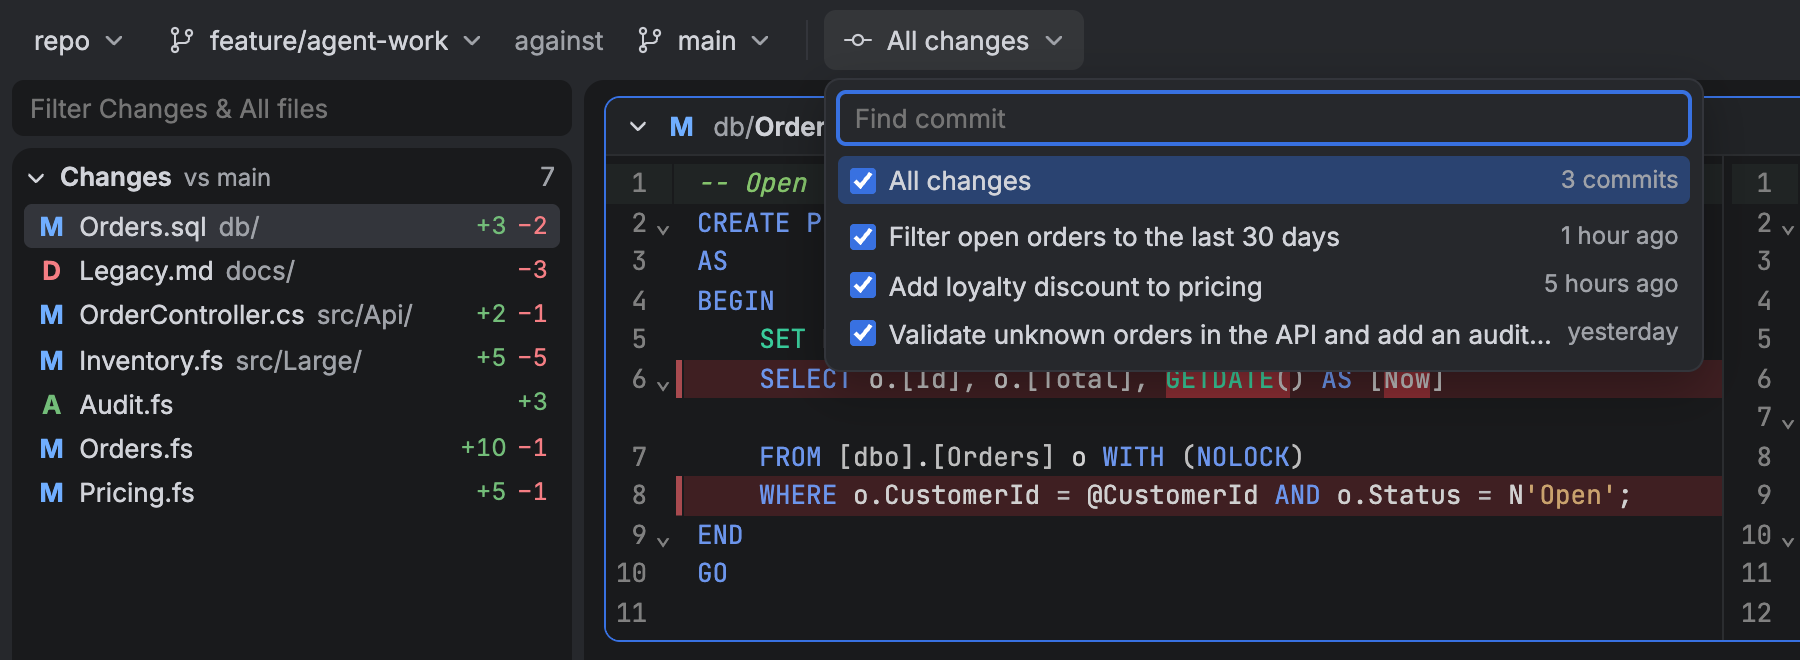
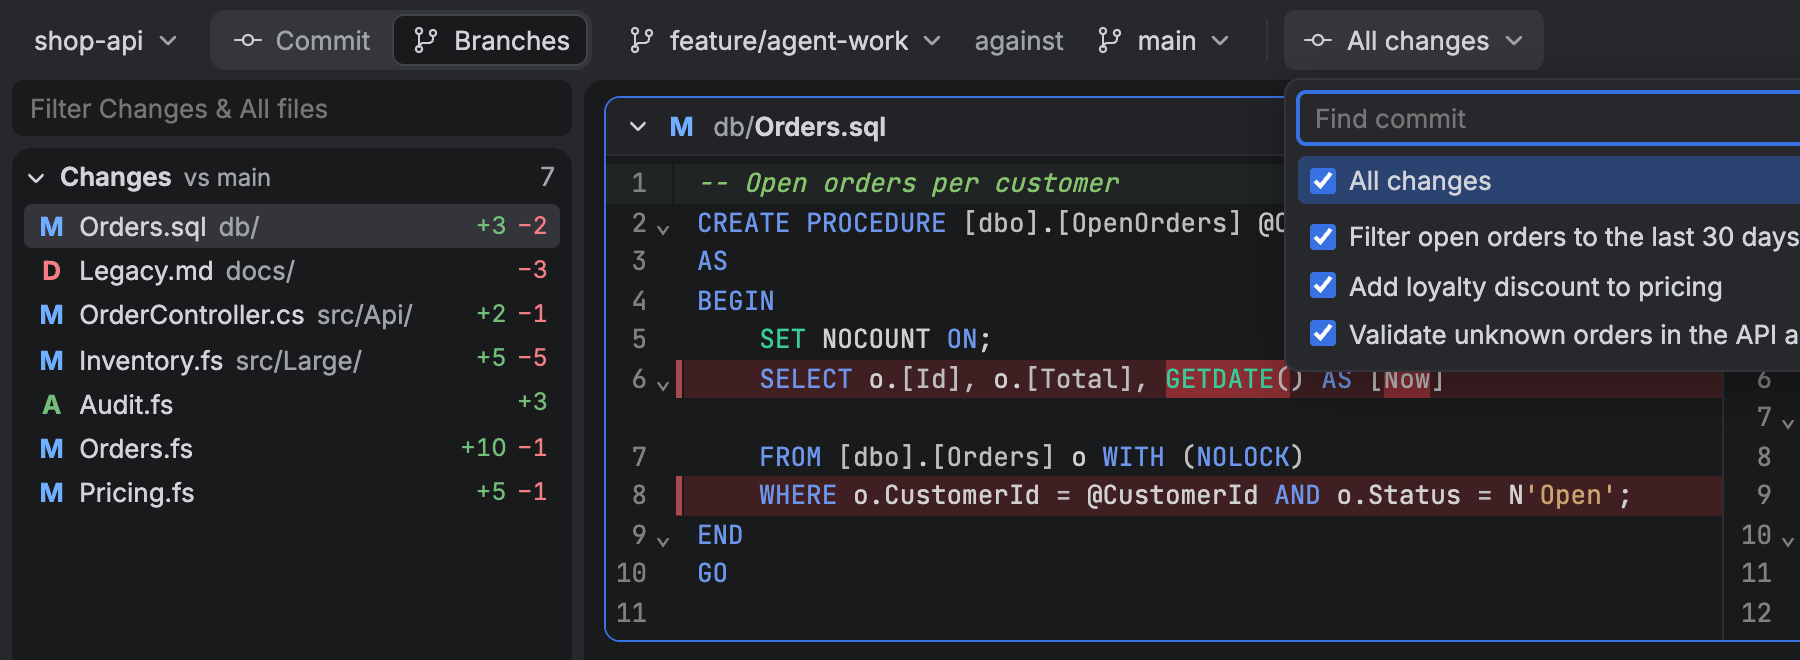
Describe Arnold as the whole workflow, with new screenshots
Arnold is no longer only for reviewing a branch: it commits an agent's
changes, compares branches, pushes, opens pull requests and reviews them
to completion, with F# and Fantomas throughout.

- README: new tagline, intro and highlights around that workflow; Commit
  mode as the lead screenshot; sections renamed Committing and Comparing
  branches; one F# section with Language features and Fantomas (moved out
  of Committing); the pull request review screenshot in the Azure DevOps
  section and the create dialog with a linked work item.
- Screenshots: new commit, fantomas, create-pr and fsharp shots; the
  others retaken once F# has loaded. The script's Pull request switch
  selector works again with Commit mode first.
- Dev mock: the stand-in language server answers hover and reports a
  type error as FsAutoComplete does; the repository looks real
  (/src/shop-api, Shop.* modules, no planted-error comment); Fantomas
  lists four files, `?unformatted=many` more than the dialog shows.

diff --git a/src/ipc/devMock.ts b/src/ipc/devMock.ts
@@ -32,7 +32,7 @@ interface FakeFile {
   working: string | null;
 }
 
-const ORDERS_BASE = `module ZedTrial.Orders
+const ORDERS_BASE = `module Shop.Orders
 
 open System
 open System.IO
@@ -57,7 +57,7 @@ let total (order: Order) : decimal =
 const ORDERS_WORKING =
   ORDERS_BASE.replace("/// Total including VAT.", "/// Total including VAT, rounded to two decimals.") +
   `
-// PLANTED ERROR (check 4): a string where an int is expected.
+/// Most lines one order may have.
 let maxLinesPerOrder: int = "ten"
 
 /// Total for a returning customer, formatted for display.
@@ -69,7 +69,7 @@ let loyaltyTotalText (order: Order) : string =
     |> Currency.format
 `;
 
-const PRICING_BASE = `module ZedTrial.Pricing
+const PRICING_BASE = `module Shop.Pricing
 
 let vatRate = 0.25m
 
@@ -136,7 +136,7 @@ const files = new Map<string, FakeFile>([
   ["Orders.fs", { base: ORDERS_BASE, working: ORDERS_WORKING }],
   ["Pricing.fs", { base: PRICING_BASE, working: PRICING_WORKING }],
   ["src/Api/OrderController.cs", { base: CSHARP_BASE, working: CSHARP_WORKING }],
-  ["Audit.fs", { base: null, working: 'module ZedTrial.Audit\n\nlet log (message: string) : unit =\n    printfn "[audit] %s" message\n' }],
+  ["Audit.fs", { base: null, working: 'module Shop.Audit\n\nlet log (message: string) : unit =\n    printfn "[audit] %s" message\n' }],
   ["db/Orders.sql", { base: SQL_BASE, working: SQL_WORKING }],
   ["docs/Legacy.md", { base: "# Legacy notes\n\nRemoved by the agent.\n", working: null }],
 ]);
@@ -169,12 +169,13 @@ for (let index = 1; index <= extraFiles; index++) {
   files.set("src/Large/Inventory.fs", { base, working: lines.join("\n") + "\n" });
 }
 
-const ROOT = "/fake/zed-trial/repo";
+const ROOT = "/src/shop-api";
 const lineCount = (text: string | null) => (text ? text.split("\n").length - 1 : 0);
 
-// `?lsp` starts a stand-in language server that only answers go-to-definition,
+// `?lsp` starts a stand-in language server that answers go-to-definition,
 // with the first whole-word occurrence of the symbol in the same file, and
-// reports every `open` as unused the way FsAutoComplete does.
+// hover, with a `let`'s declaration line; it reports every `open` as unused
+// and a string bound to an `int` as a type error, the way FsAutoComplete does.
 const fakeServer = new URLSearchParams(location.search).has("lsp");
 
 /** The open documents of the stand-in server, by URI. */
@@ -248,6 +249,13 @@ async function fakePrepare(onEvent: Channel<SetupEvent>, root: string, inPlace: 
 function publishUnusedOpens(uri: string, text: string) {
   const diagnostics = text.split("\n").flatMap((line, index) => {
     const name = /^\s*open\s+(\S+)/.exec(line);
+    const mistyped = /^\s*let\s+\w+\s*:\s*int\s*=\s*("[^"]*")/.exec(line);
+    if (mistyped) {
+      const start = line.indexOf(mistyped[1]);
+      const range = { start: { line: index, character: start }, end: { line: index, character: start + mistyped[1].length } };
+      const message = "This expression was expected to have type\n    'int'    \nbut here has type\n    'string'    ";
+      return [{ range, severity: 1, code: "FS0001", source: "F# Compiler", message }];
+    }
     if (!name) return [];
     const start = line.indexOf(name[1], name[0].length - name[1].length);
     const range = { start: { line: index, character: start }, end: { line: index, character: start + name[1].length } };
@@ -269,9 +277,9 @@ function fakeServerAnswer(raw: string): unknown {
   }
   if (message.id === undefined) return undefined;
   if (message.method === "initialize") {
-    return { capabilities: { textDocumentSync: 1, definitionProvider: true } };
+    return { capabilities: { textDocumentSync: 1, definitionProvider: true, hoverProvider: true } };
   }
-  if (message.method !== "textDocument/definition") return null;
+  if (message.method !== "textDocument/definition" && message.method !== "textDocument/hover") return null;
   const uri = params.textDocument.uri;
   const lines = (serverDocs.get(uri) ?? "").split("\n");
   const line = lines[params.position.line] ?? "";
@@ -279,6 +287,7 @@ function fakeServerAnswer(raw: string): unknown {
   const start = line.slice(0, at).search(/\w+$/);
   const word = line.slice(start === -1 ? at : start).match(/^\w+/)?.[0];
   if (!word) return null;
+  if (message.method === "textDocument/hover") return fakeHover(lines, word);
   const pattern = new RegExp(`\\b${word}\\b`);
   for (const [index, text] of lines.entries()) {
     const column = text.search(pattern);
@@ -288,6 +297,21 @@ function fakeServerAnswer(raw: string): unknown {
     }
   }
   return null;
+}
+
+/** A `let`'s declaration as FsAutoComplete shows it, with its `///` comment. */
+function fakeHover(lines: string[], word: string) {
+  const index = lines.findIndex((text) => new RegExp(`^\\s*let\\s+(?:rec\\s+)?${word}\\b`).test(text));
+  if (index === -1) return null;
+  const declaration = lines[index]
+    .trim()
+    .replace(/^let\s+(rec\s+)?/, "val ")
+    .replace(/\s*=\s*$/, "")
+    .replace(/\)\s*:\s*/, ") : ")
+    .replace(/\s*=.*$/, "");
+  const comment = (lines[index - 1] ?? "").trim().replace(/^\/\/\/\s?/, "");
+  const doc = lines[index - 1]?.trim().startsWith("///") ? `\n\n${comment}` : "";
+  return { contents: { kind: "markdown", value: "```fsharp\n" + declaration + "\n```" + doc } };
 }
 
 // The branch's commits, newest first. Each changed file belongs to one of
@@ -334,13 +358,13 @@ const repo: RepoInfo = {
   root: ROOT,
   branches: [
     { name: "feature/agent-work", isRemote: false, worktreePath: ROOT },
-    { name: "feature/agent-work-wt", isRemote: false, worktreePath: "/fake/zed-trial/repo-worktree" },
+    { name: "feature/agent-work-wt", isRemote: false, worktreePath: "/src/shop-api-agent-work" },
     { name: "main", isRemote: false, worktreePath: null },
     { name: "origin/main", isRemote: true, worktreePath: null },
   ],
   currentBranch: "feature/agent-work",
   defaultBranch: "main",
-  worktrees: [ROOT, "/fake/zed-trial/repo-worktree"],
+  worktrees: [ROOT, "/src/shop-api-agent-work"],
 };
 
 // ------------------------------------------------------------- Fantomas
@@ -354,7 +378,9 @@ let formatted = false;
 function formatCheck() {
   if (unformattedMode === null || formatted) return unformattedMode === null ? null : { unformatted: [], errors: [] };
   if (unformattedMode === "fail") throw "dotnet tool run fantomas failed (exit code 1): Run \"dotnet tool restore\" to make the \"fantomas\" command available. (dev mock)";
-  const unformatted = ["src/Orders.fs", "src/Pricing.fs", ...Array.from({ length: 14 }, (_, i) => `tests/Case${i + 1}.fs`)];
+  const unformatted = ["src/Orders.fs", "src/Pricing.fs", "src/Discounts.fs", "tests/OrderTests.fs"];
+  // `?unformatted=many`: more than the dialog lists.
+  if (unformattedMode === "many") unformatted.push(...Array.from({ length: 14 }, (_, i) => `tests/Case${i + 1}.fs`));
   const errors = unformattedMode === "errors" ? ["Failed to format src/Broken.fs: Fantomas.Core.ParseException: ParseException"] : [];
   return { unformatted, errors };
 }
@@ -404,7 +430,7 @@ let lineCount (order: Order) : int =
   );
   worktree.set(
     "src/Discounts.fs",
-    "module ZedTrial.Discounts\n\n/// Seasonal discount rate.\nlet seasonal = 0.05m\n\nlet apply (rate: decimal) (amount: decimal) =\n    amount * (1m - rate)\n",
+    "module Shop.Discounts\n\n/// Seasonal discount rate.\nlet seasonal = 0.05m\n\nlet apply (rate: decimal) (amount: decimal) =\n    amount * (1m - rate)\n",
   );
   worktree.delete("Audit.fs");
 }

diff --git a/README.md b/README.md
@@ -2,24 +2,31 @@
 
 # Arnold
 
-**Review what your AI agents wrote before it gets merged.**
+**From an agent's uncommitted changes to a merged pull request, in one app.**
 
-Arnold is a desktop app for macOS and Windows for reviewing a git branch the way you review a pull request: every change against the branch it goes into, one file at a time or all at once, with an F# language server in the diff. It starts where the agent stops: its uncommitted changes are gone through, fixed and committed first, line by line as in Git Extensions, with the code base checked by Fantomas on the way. From there the branch is pushed, reviewed against main, and turned into a pull request for colleagues, linked to a work item; Azure DevOps pull requests can be reviewed from start to finish, including commenting, voting and completing.
+Arnold is a desktop app for macOS and Windows that takes code changes the whole way: commit them, compare branches, push, open a pull request and review it until it is completed. It is built for the work AI agents leave behind. Their uncommitted changes are gone through, fixed and committed line by line as in Git Extensions; the branch is reviewed the way its pull request will show it; and Azure DevOps pull requests are created, linked to work items, discussed, voted on and completed without leaving the app.
 
-![Arnold reviewing an Azure DevOps pull request: the files dock on the left, the side-by-side diff with discussions on the right, and Approve and Complete in the toolbar](docs/screenshots/review.png)
+F# is a first-class citizen throughout: FsAutoComplete runs in every diff, with errors, hover, go to definition and completion while you edit, and in repositories that use Fantomas, an unformatted code base is caught before it is committed.
+
+![Arnold in Commit mode: the Unstaged and Staged lists on the left, the side-by-side diff of an F# file with the agent's fix, the commit message, and Review against main, Push and Push & create PR in the toolbar](docs/screenshots/commit.png)
 
 ## Highlights
 
-- **Commit an agent's work first:** its uncommitted changes in an Unstaged and a Staged list, editable, with `S`, `U` and `R` to stage, unstage and reset files or selected lines, as in Git Extensions. In a repository that uses Fantomas, an unformatted code base is caught before the commit and can be formatted into it.
-- **From commit to pull request in the toolbar:** *Review against main*, *Push*, and *Push & create PR*, which becomes *View PR* once the branch has one; a new pull request can be linked to a work item.
-- **A pull request's diff for any branch:** merge-base → the branch's last commit, the way pull requests show changes. It updates on its own when the branch moves.
-- **Built for big reviews:** every changed file in one scrolling list, a file explorer next to it, and `F7` to step from change to change across files.
-- **Azure DevOps pull requests:** create one from a branch you reviewed, or pick one from the active ones, read its discussions in the diff, comment on lines or files, approve and complete.
-- **F# language features in the diff:** errors, hover, go to definition, find references and Rider's colors, from [FsAutoComplete](https://github.com/ionide/FsAutoComplete), which Arnold installs and updates itself.
-- **Looks like Rider:** JetBrains Rider's *Islands Dark* theme, with the toolbar as the title bar.
-- **Reviewing is read-only:** only Commit mode changes the working copy or pushes a branch; reviewing never checks out, and pushes only the reviewed commit when you create a pull request.
+**Commit.** An agent's uncommitted changes in Unstaged and Staged lists, editable in the diff, with `S`, `U` and `R` to stage, unstage and reset files or single lines, as in Git Extensions. Changes made by the agent, an editor or a terminal show up as they happen.
 
-**Contents:** [Install](#install) · [Getting started](#getting-started) · [Committing an agent's work](#committing-an-agents-work) · [Reviewing a branch](#reviewing-a-branch) · [Azure DevOps pull requests](#azure-devops-pull-requests) · [F# language features](#f-language-features) · [Keyboard shortcuts](#keyboard-shortcuts) · [What Arnold writes](#what-arnold-writes) · [Status](#status) · [License](#license) · [Development](#development)
+**Compare branches.** Any branch against the branch it goes into, as a pull request shows it: merge-base → the branch's last commit, one file at a time or every file in one scrolling list, narrowed to some of its commits if you like, with `F7` to step from change to change across files.
+
+**Push and open the pull request.** *Review against main*, *Push* and *Push & create PR* sit in the toolbar after committing. A new pull request gets a Markdown description and, if you like, a linked work item; once the branch has one, the button opens it instead.
+
+**Review pull requests.** The active Azure DevOps pull requests, their discussions in the diff, comments on lines and files, votes, and completing with the merge type of your choice.
+
+**F#, including Fantomas.** Errors, hover, go to definition, find references, completion and Rider's colors from [FsAutoComplete](https://github.com/ionide/FsAutoComplete), which Arnold installs and keeps up to date itself. In repositories that use [Fantomas](https://fsprojects.github.io/fantomas/), committing checks the formatting first and can format exactly what is committed.
+
+**Safe by default.** Comparing and reviewing never touch the checkout; only Commit mode writes, and only when you ask. Nothing is ever force-pushed.
+
+**Looks like Rider.** JetBrains Rider's *Islands Dark* theme, with the toolbar as the title bar.
+
+**Contents:** [Install](#install) · [Getting started](#getting-started) · [Committing](#committing) · [Comparing branches](#comparing-branches) · [Azure DevOps pull requests](#azure-devops-pull-requests) · [F#](#f) · [Keyboard shortcuts](#keyboard-shortcuts) · [What Arnold writes](#what-arnold-writes) · [Status](#status) · [License](#license) · [Development](#development)
 
 ## Install
 
@@ -52,15 +59,15 @@ Without a folder they open the current one. Terminals that were open during the 
 ## Getting started
 
 1. **Open a repository:** with `arnold <folder>`, or the repository button at the left of the toolbar. Star a repository there to keep it in your favorites for switching between them.
-2. **Choose what to review:**
-   - *Commit*: the uncommitted changes of a checkout, to commit them first (see [Committing an agent's work](#committing-an-agents-work)).
-   - *Branches*: the branch to review, and the base branch it goes into.
-   - *Pull request*: shown when a remote of the repository is on Azure DevOps. Pick one of its active pull requests (see [Azure DevOps pull requests](#azure-devops-pull-requests)).
-3. **Review:** go through the files in the dock or the all-files list, and step through the changes with `F7`.
+2. **Pick a mode** in the toolbar:
+   - *Commit*: the uncommitted changes of a checkout, to go through and commit (see [Committing](#committing)).
+   - *Branches*: a branch against the base branch it goes into (see [Comparing branches](#comparing-branches)).
+   - *Pull request*: shown when a remote of the repository is on Azure DevOps; one of its active pull requests (see [Azure DevOps pull requests](#azure-devops-pull-requests)).
+3. **Go through the changes:** pick files in the dock or scroll the all-files list, and step from change to change with `F7`.
 
 A repository with uncommitted changes opens in *Commit*. Otherwise it opens on the branch checked out in its folder, against the base branch you picked last (or its default branch). Arnold puts the window back where it was.
 
-### From an agent's work to a pull request
+### The whole way: from an agent's work to a pull request
 
 1. **Commit:** the repository opens in *Commit* when the agent left uncommitted changes. Go through *Unstaged*, fix what needs fixing right in the diff, stage with `S` (files, or selected lines), write the message and commit with `Ctrl+Enter` (`⌘Enter`). If the repository uses Fantomas and the code base is not formatted, Arnold asks first: *Run Fantomas and commit*, *Commit without formatting* or *Cancel*.
 2. **Review:** *Review against main* in the toolbar shows the branch as its pull request will: every change since it left main, one file at a time or all at once, with F# language features.
@@ -68,7 +75,7 @@ A repository with uncommitted changes opens in *Commit*. Otherwise it opens on t
 4. **Create the pull request:** *Push & create PR* in *Commit*, or *Create pull request* in *Branches*: title, Markdown description, draft or not, and an optional work item to link. Once the branch has an active pull request the button reads *View PR* / *View pull request* and opens it instead.
 5. **Review the pull request:** in *Pull request*, colleagues' discussions show in the diff; comment, vote and complete from Arnold.
 
-## Committing an agent's work
+## Committing
 
 An agent usually leaves its work uncommitted. *Commit*, the first mode in the toolbar, is where it is gone through, fixed and committed, like the commit dialog of [Git Extensions](https://gitextensions.github.io/). The picker next to it chooses the checkout: the opened folder or any other worktree of the repository with a branch checked out (such as an agent's `.claude/worktrees/…`).
 
@@ -94,11 +101,9 @@ Within a change, lines work one by one: selecting some of a change stages or res
 
 Write the message under the diff (drag the gap above it to make it taller) and commit with *Commit* or `Ctrl+Enter` (`⌘Enter`); the repository's hooks run.
 
-When the repository uses [Fantomas](https://fsprojects.github.io/fantomas/) (it is in `.config/dotnet-tools.json` or `dotnet-tools.json`), Arnold first runs `dotnet tool run fantomas --check .` on the checkout (restoring the repository's tools if needed). If Fantomas would change files, or cannot check them, Arnold says so and asks:
+When the repository uses Fantomas, Arnold checks the formatting before it commits and, if the code base is not formatted, asks whether to format first (see [Fantomas](#fantomas)).
 
-- **Run Fantomas and commit** formats the files Fantomas listed and stages only their formatting, then commits. A listed file without other unstaged changes is staged whole; one with other unstaged changes gets its staged text formatted (through a copy beside it, so the same `.editorconfig` applies) and keeps those changes unstaged, formatted on disk. Other unstaged files stay as they are. If Fantomas cannot format a file as staged, nothing is committed.
-- **Commit without formatting** commits as it is.
-- **Cancel** does neither.
+![The code base is not formatted: Fantomas would reformat four files; Run Fantomas and commit, Commit without formatting, or Cancel](docs/screenshots/fantomas.png)
 
 Arnold says what it committed in the status bar and stays in Commit mode. On the right of the toolbar are three buttons for the branch checked out:
 
@@ -106,9 +111,9 @@ Arnold says what it committed in the status bar and stays in Commit mode. On the
 - **Push**, with the number of commits it would send: pushes the branch to its upstream, or to `origin` as a new branch that then becomes its upstream. Never forced: when the remote's branch has commits the local one lacks, the button is off and says to pull first. To an Azure DevOps remote Arnold sends the personal access token it has; otherwise git's own credentials are used.
 - **Push & create PR** (with an Azure DevOps remote): pushes as *Push* does, then reviews the branch in *Branches* with the *Create pull request* dialog open. With nothing to push it reads *Create PR*. When the branch has an active pull request already, it reads *Push & view PR* (or *View PR*) and opens that pull request in *Pull request* instead.
 
-The lists follow changes made anywhere: by the agent, an editor or a terminal. *Commit* shows one file at a time; *All files* is for reviewing. F# language features work as in the review (see [F# language features](#f-language-features)), with completion and signature help while typing; the server runs in the checkout itself and sees edits as they are made.
+The lists follow changes made anywhere: by the agent, an editor or a terminal. *Commit* shows one file at a time; *All files* is for reviewing. F# language features work as everywhere else (see [F#](#f)), with completion and signature help while typing; the server runs in the checkout itself and sees edits as they are made.
 
-## Reviewing a branch
+## Comparing branches
 
 ### What is compared
 
@@ -148,6 +153,8 @@ The toolbar switches between one file at a time and *All files*: every file of t
 
 When a remote of the repository is on Azure DevOps (dev.azure.com, *.visualstudio.com or Azure DevOps Server, over HTTPS or SSH), the toolbar's *Commit | Branches* switch gets a third choice, *Pull request*.
 
+![Arnold reviewing an Azure DevOps pull request: the files dock on the left, the side-by-side diff with discussions on the right, and Approve and Complete in the toolbar](docs/screenshots/review.png)
+
 ### Connecting
 
 Arnold needs a personal access token. Listing pull requests needs the **Code (Read)** scope; creating pull requests (and pushing their branch), commenting, voting and completing need **Code (Read & write)**; showing a linked work item's title needs **Work Items (Read)** as well (optional). Arnold shows these steps itself when it finds an Azure DevOps remote and has no token:
@@ -161,6 +168,8 @@ Arnold checks the token with Azure DevOps before saving it, one per organization
 ### Creating a pull request
 
 Once a branch is reviewed (an AI agent's, say), *Create pull request* in the toolbar opens one on Azure DevOps from the branch to review into the base branch, for colleagues to review. When the branch has an active pull request already (preferably one into the base branch), the button reads *View pull request* and opens it in *Pull request*. The title and description start out as Azure DevOps fills them in (the commit's subject for one commit; otherwise the branch name, with the commits listed), the description is Markdown with a preview, and *Create as a draft* is remembered. An optional *Work item* field links the pull request to a work item: type its number (`1234`, `#1234`, or paste its address) and Arnold shows its type, title and state, and will not create the pull request with a number Azure DevOps does not know. Linking needs no more than the Code scope; showing the title needs *Work Items → Read* on the token, and without it the work item is linked by its number.
+
+![Create pull request: title, a work item linked to User Story 1234 (Loyalty discount for returning customers, Active), a Markdown description and Create as a draft](docs/screenshots/create-pr.png)
 
 When Azure DevOps does not have the branch yet, or has an older commit of it, Arnold first pushes the commit you reviewed, not whatever the branch points at by now, and says so in the dialog. It never forces: if the branch on Azure DevOps has commits you have not reviewed, nothing is pushed or created. The push goes to the remote's HTTPS address with the token and moves the remote-tracking branch (`origin/<branch>`) along, as `git push` would; the local branch and its upstream setting are left alone. When a pull request between the two branches is open already, the dialog offers to review it instead. The new pull request opens in Arnold.
 
@@ -194,13 +203,17 @@ As in Azure DevOps, the toolbar has *Approve* and *Complete*:
 
 ![The Complete pull request dialog: merge type, commit message and what to do after merging](docs/screenshots/complete.png)
 
-## F# language features
+## F#
 
-In F# files the diff has errors and warnings, hover, go to definition (`F12`, `Ctrl`/`Cmd`+click or the context menu; *Back* returns), find references (`Shift+F12`), semantic colors as in Rider, and unused `open`s faded out. The file headers of the all-files view count the errors of every changed F# file.
+### Language features
 
-The language server needs the reviewed code on disk with its packages restored. For the branch checked out in the opened folder it runs right there; for any other branch or a pull request Arnold prepares a copy. While it does, the review goes on as usual; the status bar shows how far it has come, and its popup lists each step, problems, the output of `dotnet` and the build log of a project that failed. If something fails, the review goes on without language features, or with gaps.
+In F# files the diff has errors and warnings, hover, go to definition (`F12`, `Ctrl`/`Cmd`+click or the context menu; *Back* returns), find references (`Shift+F12`), semantic colors as in Rider, and unused `open`s faded out. Where the diff can be edited (in *Commit*) there is completion and signature help too. The file headers of the all-files view count the errors of every changed F# file.
 
-![The F# language features popup: copying the commit, restoring, building, starting FsAutoComplete and loading projects](docs/screenshots/language.png)
+![A type error in the diff: hovering "ten" shows that the expression was expected to have type int but has type string](docs/screenshots/fsharp.png)
+
+The language server needs the code on disk with its packages restored. For the branch checked out in the opened folder (and in *Commit*) it runs right there; for any other branch or a pull request Arnold prepares a copy. While it does, the review goes on as usual; the status bar shows how far it has come, and its popup lists each step, problems, the output of `dotnet` and the build log of a project that failed. If something fails, the review goes on without language features, or with gaps.
+
+![The F# language features popup: restoring, building, starting FsAutoComplete and loading projects](docs/screenshots/language.png)
 
 How it works:
 
@@ -209,6 +222,16 @@ How it works:
 - It needs the .NET SDK (8 or newer). The SDK the repository selects (`global.json`) decides which build of the server runs.
 - The server runs in the opened folder when the reviewed branch is checked out there, else in a copy of the reviewed commit in `.arnold/worktrees/<branch>`. Checking out another branch in the folder moves it to a copy. Arnold does only what FsAutoComplete needs there: `dotnet tool restore` and `dotnet restore` when project or package files changed since the last restore in that folder, and `dotnet build` only for projects in other languages (such as C#) that F# projects reference, when their files changed. F# projects themselves are never built. A new commit updates the copy in place, so restore and build output are reused.
 - The server stops when Arnold closes or you pick another branch.
+
+### Fantomas
+
+When the repository uses [Fantomas](https://fsprojects.github.io/fantomas/) (it is in `.config/dotnet-tools.json` or `dotnet-tools.json`), *Commit* first runs `dotnet tool run fantomas --check .` on the checkout, restoring the repository's tools if needed. If Fantomas would change files, or cannot check them, Arnold lists them and asks:
+
+- **Run Fantomas and commit** formats the files Fantomas listed and stages only their formatting, then commits. A listed file without other unstaged changes is staged whole; one with other unstaged changes gets its staged text formatted (through a short-lived copy beside it, so the same `.editorconfig` applies) and keeps those changes unstaged, formatted on disk. Other unstaged files stay as they are. If Fantomas cannot format a file as staged, nothing is committed.
+- **Commit without formatting** commits as it is.
+- **Cancel** does neither.
+
+Files Fantomas cannot parse are listed separately; they are left as they are.
 
 ## Keyboard shortcuts
 
@@ -309,7 +332,7 @@ Options of the stand-in backend, added to the URL (`?devops&lsp`):
 |---|---|
 | `devops` | An Azure DevOps remote with a saved token and four pull requests (!1270 has merge conflicts); `=nopat` without a token (pasting `bad` is rejected), `=rejected`, `=empty` |
 | `uncommitted` | The checkout has an agent's uncommitted work (edits, a partly staged file, an untracked and a deleted file), so the repository opens in *Commit*; `failcommit` makes committing fail as a hook would |
-| `unformatted` | The repository uses Fantomas and it would reformat files; `=errors` adds a file it cannot parse, `=fail` makes the check fail |
+| `unformatted` | The repository uses Fantomas and it would reformat files; `=many` lists more than the dialog shows, `=errors` adds a file it cannot parse, `=fail` makes the check fail |
 | `failpush` | Pushing the branch from *Commit* fails |
 | `readonlytoken` | Writing to pull requests fails, as with a Code (Read) token |
 | `workitems=noaccess` | The token may not read work items. Otherwise work items below 90000 exist (1234 has a real title) and higher numbers do not |
